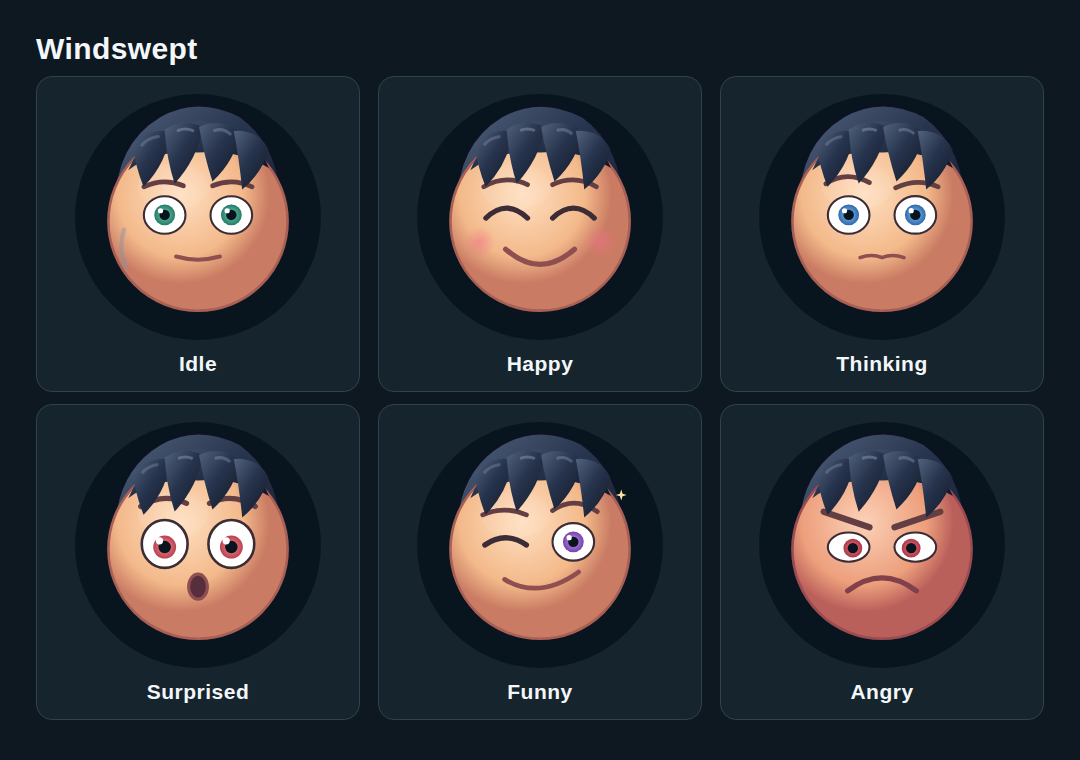
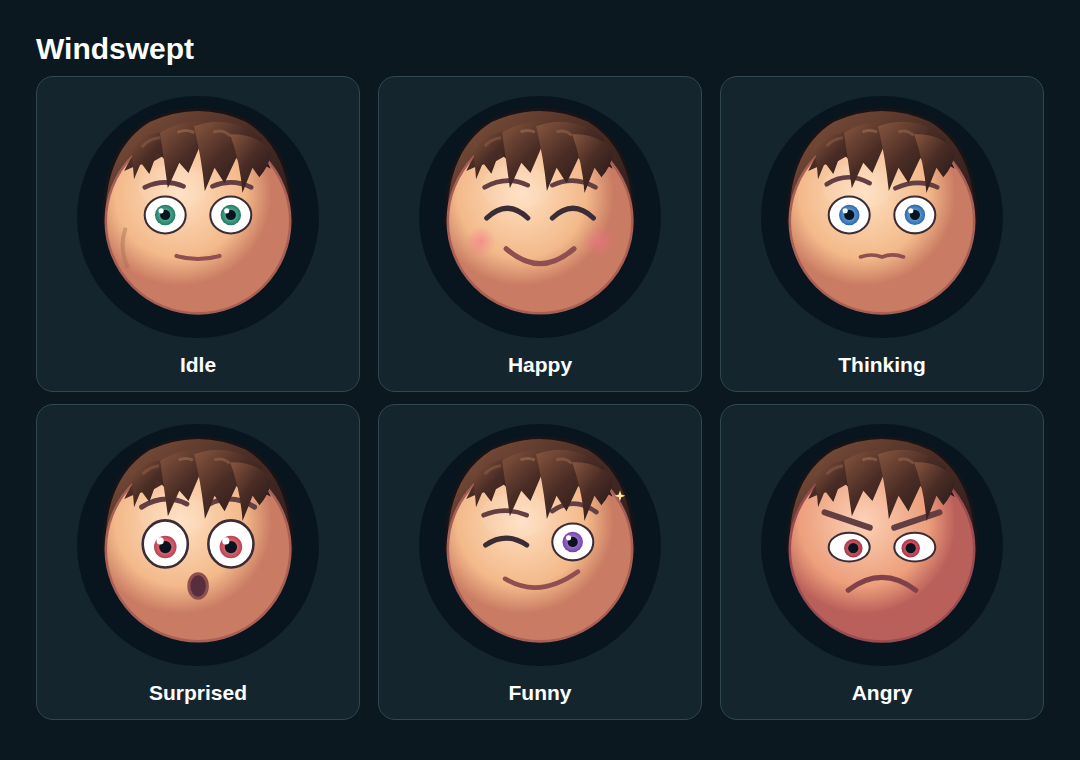
feat: finalize animated character skins

diff --git a/skins/README.md b/skins/README.md
@@ -1,11 +1,15 @@
 # Face skins
 
-Each subdirectory is a complete, interchangeable visual style for the round display.
+The finalized collection contains five interchangeable visual styles for the round display:
 
 - `pixel/` preserves the original neon pixel-art assets, including distinct static and `-anim` variants.
 - `expressive/` contains self-contained 240x240 animated SVGs with layered facial motion and secondary effects.
-- `windswept/` features layered hair and independently animated fringe locks with restrained wind follow-through.
+- `windswept/` features dimensional blonde hair swept to one side with independently animated fringe locks.
+- `knit-beanie/` combines a side fringe with a ribbed wool beanie and restrained pom follow-through.
+- `backwards-cap/` combines a front fringe with a backwards cap whose rear opening, strap, and rear visor remain readable at display size.
 
-Standard mood filenames are `idle.svg`, `happy.svg`, `thinking.svg`, `surprised.svg`, `funny.svg`, and `angry.svg`. A skin may also provide `all-moods.svg` as a visual overview and style-specific variants such as `happy-anim.svg`.
+Standard mood filenames are `idle.svg`, `happy.svg`, `thinking.svg`, `surprised.svg`, `funny.svg`, and `angry.svg`. Complete selectable skins also provide `speaking.svg`. A skin may provide `all-moods.svg` as a visual overview and style-specific variants such as `happy-anim.svg`.
 
 Firmware should select a skin directory first, then resolve mood files relative to that directory, for example `skins/expressive/happy.svg`. This keeps mood selection independent from any particular visual style or implementation.
+
+During TTS playback, firmware switches the selected skin to `speaking.svg`. The speaking asset owns the looping phoneme-like mouth motion; normal mood assets do not chatter continuously. When TTS ends, firmware restores the mood that was active before speaking.
